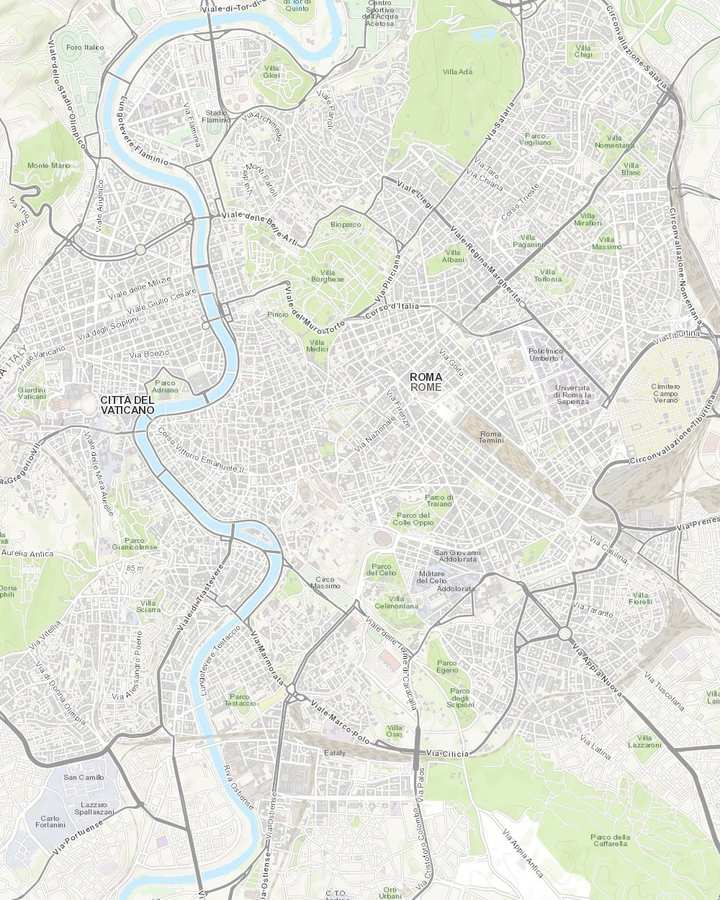
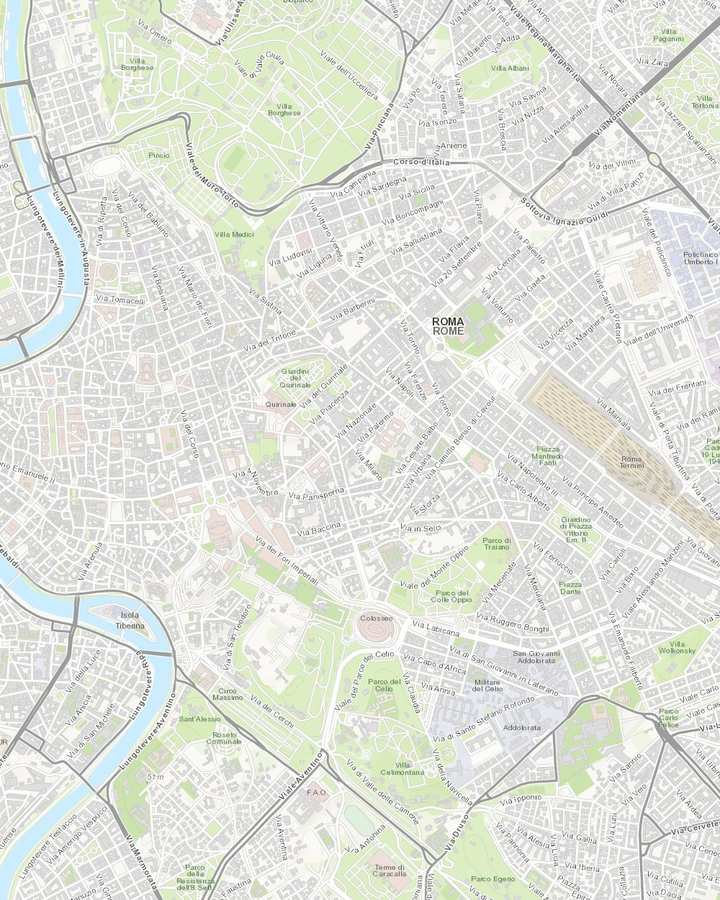
第 45 轮：D2 傍晚改为博物馆直接晚饭 19:00 → 饭后特雷维夜景 → Via del Tritone 出租车站打车回家；纳沃纳删；地图 2 重画

diff --git a/index.html b/index.html
@@ -668,7 +668,7 @@ var DAYS = [
 /* ---------------- D2 ---------------- */
 {
   n:2, date:"2026-10-07", dow:"周三", city:"罗马 · 斗兽场",
-  line:"贝尼尼《圣特雷莎的狂喜》→ Luna 早午饭 → Monti → 斗兽场讲解团 13:30 → 小吃 → 卡比托利欧博物馆 → 特雷维 → Pietro 晚饭 → 饭后纳沃纳",
+  line:"贝尼尼《圣特雷莎的狂喜》→ Luna 早午饭 → Monti → 斗兽场讲解团 13:30 → 小吃 → 卡比托利欧博物馆 → Pietro 晚饭 → 饭后特雷维夜景",
   drive:"", stayShort:"罗马 Castro Pretorio",
   stay:{ t:"罗马 Castro Pretorio 3 · 第 2 晚", d:"Via del Castro Pretorio 30。", addr:"Via del Castro Pretorio 30, 00185 Roma" },
   wc:["roma"],
@@ -680,10 +680,9 @@ var DAYS = [
     {n:"Monti · Madonna dei Monti 小广场", m:"Piazza della Madonna dei Monti Roma", leg:"🚶 15 分钟"},
     {n:"斗兽场门口集合（罗罗旅行团）", m:"Colosseo", leg:"散团后 🚶 5 分钟"},
     {n:"小吃 La Prezzemolina", m:"La Prezzemolina Via del Colosseo 1 Roma", leg:"🚶 10 分钟上山"},
-    {n:"卡比托利欧博物馆", m:"Musei Capitolini Roma", leg:"🚶 15 分钟"},
-    {n:"特雷维喷泉", m:"Fontana di Trevi Roma", leg:"🚶 10 分钟 · 路过万神殿广场"},
-    {n:"晚饭 Pietro al Pantheon", m:"Pietro al Pantheon Via dei Pastini 125 Roma", leg:"饭后 🚶 6 分钟"},
-    {n:"纳沃纳广场 · 四河喷泉夜景", m:"Piazza Navona Roma", leg:"🚶 6 分钟回万神殿边 · 🚕 15 分钟"},
+    {n:"卡比托利欧博物馆", m:"Musei Capitolini Roma", leg:"🚶 20 分钟"},
+    {n:"晚饭 Pietro al Pantheon", m:"Pietro al Pantheon Via dei Pastini 125 Roma", leg:"饭后 🚶 15 分钟 · 路过万神殿广场"},
+    {n:"特雷维喷泉夜景", m:"Fontana di Trevi Roma", leg:"🚶 3 分钟到 Via del Tritone 路口出租车站 · 🚕 15 分钟"},
     {n:"Castro Pretorio 3 民宿", m:"Via del Castro Pretorio 30 Roma"}
   ],
   steps:[
@@ -744,21 +743,16 @@ var DAYS = [
       nav:{m:"Musei Capitolini Roma", mode:"walking"}, place:"Musei Capitolini Roma",
       link:{u:"https://www.museicapitolini.org/en", l:"官网"},
       video:"https://search.bilibili.com/all?keyword=%E5%8D%A1%E6%AF%94%E6%89%98%E5%88%A9%E6%AC%A7%E5%8D%9A%E7%89%A9%E9%A6%86%20%E8%AE%B2%E8%A7%A3" },
-    { id:"d2-13", t:"18:30", e:"🚶", a:"走 15 分钟到特雷维喷泉",
-      sub:"下山经威尼斯广场，沿 Via del Corso 往北，右拐 Via delle Muratte 到头。",
-      nav:{m:"Fontana di Trevi Roma", mode:"walking"} },
-    { id:"d2-14", t:"18:45", e:"⛲", a:"特雷维喷泉 10 分钟，正好日落",
-      sub:"靠水内圈 €2，外圈台阶免费。",
-      nav:{m:"Fontana di Trevi Roma", mode:"walking"}, place:"Fontana di Trevi Roma" },
-    { id:"d2-15", t:"18:55", e:"🚶", a:"走 10 分钟到晚饭，路过万神殿广场（只看外面，明早进）",
+    { id:"d2-13", t:"18:30", e:"🚶", a:"出博物馆，走 20 分钟到晚饭",
+      sub:"下山经威尼斯广场，沿 Via del Corso 往北，左拐 Via dei Pastini。",
       nav:{m:"Pietro al Pantheon Via dei Pastini 125 Roma", mode:"walking"} },
-    { id:"d2-16", t:"19:15", e:"🍝", a:"晚饭 Pietro al Pantheon：罗马四大面 + 炸洋蓟 + 番茄炖牛尾", kind:"eat",
+    { id:"d2-14", t:"19:00", e:"🍝", a:"晚饭 Pietro al Pantheon：罗马四大面 + 炸洋蓟 + 番茄炖牛尾", kind:"eat",
       meals:[
         {n:"Pietro al Pantheon", g:"4.4",
          d:"gricia、carbonara、cacio e pepe、amatriciana 四大面，炸洋蓟，番茄炖牛尾，炸西葫芦花",
          h:"每天 11:00-23:00",
          w:"Google 4.4（2,290 评）、TripAdvisor 4.3（2,792 评）；桌边服务，人均 €25-35",
-         b:"TheFork 或电话订 19:15，要里面的桌；迟到 15 分钟会被放桌", tel:"+39 06 678 9940", m:"Pietro al Pantheon Via dei Pastini 125 Roma"},
+         b:"TheFork 或电话订 19:00，要里面的桌；迟到 15 分钟会被放桌", tel:"+39 06 678 9940", m:"Pietro al Pantheon Via dei Pastini 125 Roma"},
         {n:"备选 Antonio al Pantheon", g:"4.7",
          d:"松露 carbonara、cacio e pepe、炸西葫芦花",
          w:"同一条街 12 号；Google 4.7（3,189 评）、TripAdvisor 4.2",
@@ -766,10 +760,13 @@ var DAYS = [
       ],
       addr:["Pietro al Pantheon：Via dei Pastini 125, Roma","Antonio al Pantheon：Via dei Pastini 12, Roma"],
       nav:{m:"Pietro al Pantheon Via dei Pastini 125 Roma", mode:"walking"} },
-    { id:"d2-17", t:"20:45", e:"🚶", a:"饭后走 6 分钟到纳沃纳广场：灯光下的四河喷泉 15 分钟，再走 6 分钟回万神殿边",
-      nav:{m:"Piazza Navona Roma", mode:"walking"}, place:"Piazza Navona Roma" },
-    { id:"d2-18", t:"21:15", e:"🚕", a:"万神殿边打车 15 分钟回家",
-      sub:"想走：40 分钟。",
+    { id:"d2-15", t:"20:30", e:"🚶", a:"饭后走 15 分钟到特雷维喷泉，路过万神殿广场（明早进）",
+      nav:{m:"Fontana di Trevi Roma", mode:"walking"} },
+    { id:"d2-16", t:"20:45", e:"⛲", a:"特雷维喷泉夜景 15 分钟",
+      sub:"靠水内圈 €2（22:00 后免费），外圈台阶免费。",
+      nav:{m:"Fontana di Trevi Roma", mode:"walking"}, place:"Fontana di Trevi Roma" },
+    { id:"d2-17", t:"21:00", e:"🚕", a:"打车 15 分钟回家：广场车进不来，走 3 分钟到 Via del Tritone 路口的出租车站",
+      sub:"那个站只停 4 辆车，没车就用 FreeNow，上车点选 Largo Chigi（Via del Corso 边，走 5 分钟）或 Piazza Barberini 出租车站（上坡走 7 分钟）。想走：40 分钟。",
       nav:{m:"Via del Castro Pretorio 30 Roma", mode:"driving"} }
   ]
 },
@@ -1596,22 +1593,21 @@ var MAPS2 = {
   "2": {
     w:1000, h:1250,
     img:"maps/2.jpg",
-    walk:[[691,562],[689,564],[687,566],[680,559],[678,560],[666,572],[664,570],[657,564],[655,563],[646,556],[643,552],[641,550],[637,546],[634,543],[633,541],[631,539],[623,530],[621,531],[612,521],[607,515],[605,514],[602,514],[590,523],[588,524],[584,521],[583,523],[579,519],[573,513],[569,516],[566,516],[556,526],[554,525],[552,523],[552,523],[546,517],[544,518],[543,520],[542,522],[539,522],[535,522],[532,522],[529,523],[526,524],[524,525],[522,526],[515,529],[513,530],[507,533],[501,536],[496,538],[492,540],[486,543],[487,546],[487,546],[496,553],[500,556],[498,559],[507,570],[502,576],[494,584],[489,589],[496,598],[498,599],[501,603],[500,605],[503,609],[506,613],[508,615],[506,618],[505,620],[500,630],[502,635],[507,653],[508,657],[512,669],[513,674],[515,675],[515,675],[514,677],[515,680],[513,681],[515,687],[516,690],[518,696],[519,700],[521,706],[523,711],[525,720],[527,728],[528,730],[530,731],[532,732],[530,733],[527,733],[527,736],[527,738],[527,738],[524,738],[521,738],[518,737],[515,736],[510,733],[508,732],[502,727],[499,725],[491,719],[487,716],[484,714],[486,712],[491,710],[495,707],[493,706],[492,704],[491,702],[492,701],[492,701],[490,702],[488,700],[486,701],[480,705],[478,704],[476,702],[474,703],[472,704],[467,700],[465,699],[460,695],[454,690],[444,683],[442,682],[440,684],[438,687],[437,689],[434,690],[433,693],[431,698],[429,699],[426,701],[423,702],[423,702],[421,701],[419,698],[411,693],[412,690],[414,685],[414,681],[415,679],[413,675],[414,672],[412,670],[410,668],[413,665],[413,662],[412,660],[411,655],[409,651],[408,648],[412,647],[410,638],[409,636],[406,624],[403,615],[403,611],[402,607],[401,604],[400,600],[399,595],[400,593],[409,591],[415,589],[417,588],[420,587],[422,586],[424,585],[423,581],[425,582],[427,582],[427,582],[425,583],[424,581],[425,584],[422,586],[420,587],[417,588],[415,589],[409,591],[400,593],[399,595],[394,595],[391,596],[386,596],[383,596],[379,596],[376,598],[374,599],[373,601],[370,603],[365,604],[356,606],[354,609],[351,609],[351,614],[351,611],[352,609],[355,607],[362,605],[362,605],[356,606],[354,609],[351,609],[348,611],[345,611],[342,611],[339,611],[334,611],[330,606],[328,605],[319,605],[316,605],[316,609],[311,610],[310,612]],
-    walkBreaks:[33, 53, 77, 96, 115, 139, 177, 206],
-    drive:[[357,604],[356,606],[355,611],[365,611],[370,611],[373,610],[379,609],[382,614],[383,621],[384,626],[385,630],[387,631],[390,631],[394,639],[389,641],[389,644],[391,653],[387,656],[383,657],[380,658],[377,659],[376,661],[378,663],[382,667],[387,672],[389,674],[392,674],[395,674],[397,673],[399,674],[400,676],[401,680],[402,683],[403,685],[404,687],[406,689],[409,689],[411,688],[412,684],[413,681],[413,677],[412,675],[412,672],[413,670],[414,668],[415,666],[414,661],[410,649],[414,648],[418,647],[421,646],[423,645],[427,645],[431,644],[433,645],[440,651],[443,651],[446,651],[450,650],[452,654],[454,655],[458,654],[461,654],[466,654],[468,655],[470,653],[470,650],[470,647],[469,641],[469,638],[468,635],[467,631],[467,628],[467,620],[467,615],[468,612],[469,609],[470,607],[471,605],[473,603],[480,596],[487,590],[489,588],[493,584],[495,582],[502,575],[506,571],[508,570],[512,566],[514,564],[516,562],[520,559],[531,549],[532,547],[535,545],[537,543],[546,534],[549,534],[552,533],[555,531],[556,529],[558,531],[563,537],[565,539],[570,535],[575,531],[579,527],[583,524],[586,526],[590,524],[592,523],[602,514],[603,512],[606,513],[612,520],[616,524],[621,529],[622,531],[627,536],[629,539],[631,540],[632,542],[634,543],[636,546],[640,551],[642,552],[644,554],[645,556],[647,558],[649,559],[655,564],[664,571],[673,579],[675,581],[683,573],[687,568],[692,563]],
+    walk:[[839,499],[834,504],[831,507],[817,493],[815,495],[788,518],[785,516],[771,504],[769,502],[767,501],[750,486],[749,484],[743,479],[740,475],[732,467],[726,460],[725,458],[724,456],[722,455],[719,453],[702,435],[700,437],[698,435],[681,417],[680,415],[671,406],[669,404],[667,403],[664,403],[662,402],[660,401],[638,421],[636,423],[634,424],[632,423],[626,418],[623,420],[615,414],[604,402],[602,400],[601,402],[595,407],[592,410],[590,407],[569,426],[567,424],[564,424],[561,421],[561,421],[550,408],[549,406],[547,408],[546,410],[545,412],[544,414],[543,416],[542,418],[539,419],[535,418],[532,418],[528,418],[524,419],[520,420],[515,421],[509,423],[506,425],[503,426],[501,427],[487,434],[483,436],[472,441],[460,446],[450,451],[448,452],[442,454],[429,461],[427,463],[429,465],[432,467],[432,467],[449,481],[458,487],[454,494],[472,514],[469,516],[471,518],[462,527],[445,544],[436,552],[434,554],[449,572],[450,570],[452,572],[460,582],[457,584],[456,586],[459,588],[463,594],[470,601],[471,603],[473,605],[474,607],[469,612],[467,613],[468,615],[468,618],[458,634],[461,646],[471,680],[473,682],[472,684],[474,689],[480,713],[483,724],[487,724],[487,724],[484,725],[485,730],[486,734],[484,735],[484,738],[488,749],[487,751],[488,753],[489,755],[494,768],[496,775],[500,788],[503,797],[508,816],[512,831],[513,833],[514,836],[516,837],[519,837],[522,837],[521,839],[519,840],[518,842],[511,841],[511,845],[511,850],[511,850],[506,851],[501,852],[494,849],[488,847],[489,845],[477,840],[475,839],[461,829],[456,825],[440,813],[432,807],[426,802],[427,800],[429,798],[432,798],[434,799],[439,795],[447,788],[445,787],[443,785],[441,782],[439,781],[438,779],[441,777],[441,777],[438,779],[435,777],[433,775],[430,777],[418,785],[415,784],[414,782],[411,781],[409,780],[407,781],[405,782],[402,783],[401,785],[391,776],[388,773],[385,771],[377,765],[365,756],[345,740],[342,740],[339,742],[337,743],[335,745],[333,748],[331,750],[331,753],[328,754],[325,754],[324,761],[323,765],[319,771],[317,774],[315,773],[309,776],[305,778],[303,779],[303,779],[300,779],[299,777],[298,775],[296,772],[279,761],[280,759],[280,756],[278,755],[276,754],[274,755],[274,751],[272,750],[269,748],[266,745],[264,742],[263,740],[262,738],[261,736],[261,733],[260,731],[260,728],[260,725],[259,723],[256,722],[252,721],[251,719],[250,717],[248,718],[239,686],[239,681],[236,667],[232,667],[230,665],[225,661],[223,659],[221,655],[221,652],[221,649],[220,641],[226,639],[225,636],[225,627],[223,619],[221,603],[216,603],[215,594],[203,596],[202,591],[201,589],[200,587],[197,580],[195,581],[187,584],[182,584],[182,584],[170,587],[167,588],[164,593],[158,594],[159,598],[159,604],[159,598],[158,594],[162,593],[167,588],[170,587],[187,584],[195,581],[197,580],[201,578],[204,577],[206,573],[210,570],[215,568],[224,567],[229,568],[238,567],[245,566],[251,565],[253,564],[257,562],[276,556],[287,553],[291,552],[297,549],[302,546],[306,544],[304,537],[306,539],[308,540],[311,540]],
+    walkBreaks:[48, 79, 115, 142, 167, 204, 259],
+    drive:[[302,535],[294,536],[291,537],[288,537],[282,539],[271,541],[272,543],[250,549],[246,543],[244,536],[242,528],[241,526],[242,523],[243,521],[245,520],[248,520],[262,514],[264,512],[266,511],[275,508],[277,507],[289,503],[291,502],[297,501],[318,494],[326,491],[330,490],[342,486],[353,482],[362,479],[364,478],[371,476],[383,471],[389,469],[395,467],[416,460],[419,459],[422,459],[426,459],[428,458],[440,452],[445,450],[448,449],[471,438],[482,433],[501,425],[508,421],[510,420],[514,419],[517,418],[519,417],[522,417],[525,416],[529,416],[532,416],[537,416],[540,417],[543,417],[545,418],[548,419],[552,420],[557,424],[561,428],[563,429],[565,431],[567,432],[570,433],[572,435],[574,438],[584,449],[587,454],[589,453],[598,445],[607,437],[616,429],[623,423],[625,422],[629,426],[631,428],[633,427],[638,424],[641,422],[661,403],[664,400],[666,398],[669,402],[682,415],[689,423],[699,434],[701,436],[711,447],[716,453],[718,454],[719,456],[722,459],[724,462],[726,464],[730,467],[738,476],[740,478],[742,480],[743,482],[745,483],[746,485],[748,486],[749,488],[752,490],[756,493],[766,502],[769,504],[784,517],[787,519],[803,532],[805,534],[808,537],[810,536],[823,522],[832,511],[834,510],[842,502]],
     driveBreaks:[],
-    title:"D2 罗马（全天步行 · 饭后打车 1 次）",
+    title:"D2 罗马（全天步行 · 饭后从特雷维打车回家）",
     pins:[
-      {x:691,y:562,n:1,k:"stay",l:"住处·卡斯特罗",m:"Via del Castro Pretorio 30 Roma",mo:"walking",leg:"步行 20 分 · 打车 10 分"},
-      {x:553,y:522,n:2,k:"sight",l:"圣母胜利教堂·贝尼尼《圣特雷莎的狂喜》",m:"Santa Maria della Vittoria Roma",mo:"walking",leg:"步行 10 分"},
-      {x:487,y:546,n:3,k:"eat",l:"早午饭 Luna by Faro",m:"LUNA by Faro Via delle Quattro Fontane 175 Roma",mo:"walking",leg:"步行 20 分 · 打车 10 分"},
-      {x:515,y:676,n:4,k:"sight",l:"Monti 小广场",m:"Piazza della Madonna dei Monti Roma",mo:"walking",leg:"步行 15 分到斗兽场门口"},
-      {x:527,y:738,n:5,k:"sight",l:"斗兽场门口 13:00 集合 · 讲解团到 16:30",m:"Colosseo",mo:"walking",leg:"散团后步行 5 分"},
-      {x:492,y:702,n:6,k:"eat",l:"小吃 La Prezzemolina",m:"La Prezzemolina Via del Colosseo 1 Roma",mo:"walking",leg:"步行 10 分上山"},
-      {x:423,y:701,n:7,k:"sight",l:"卡比托利欧博物馆 17:00-18:30",m:"Musei Capitolini Roma",mo:"walking",leg:"步行 15 分"},
-      {x:426,y:580,n:8,k:"sight",l:"特雷维喷泉 18:45 日落",m:"Fontana di Trevi Roma",mo:"walking",leg:"步行 10 分 · 路过万神殿广场"},
-      {x:362,y:605,n:9,k:"eat",l:"晚饭 Pietro al Pantheon 19:15",m:"Pietro al Pantheon Via dei Pastini 125 Roma",mo:"walking",leg:"饭后步行 6 分"},
-      {x:308,y:613,n:10,k:"sight",l:"纳沃纳广场·四河喷泉夜景",m:"Piazza Navona Roma",mo:"walking",leg:"步行 6 分回万神殿边 · 打车 15 分回家"}
+      {x:839,y:499,n:1,k:"stay",l:"住处·卡斯特罗",m:"Via del Castro Pretorio 30 Roma",mo:"walking",leg:"步行 20 分 · 打车 10 分"},
+      {x:564,y:419,n:2,k:"sight",l:"圣母胜利教堂·贝尼尼《圣特雷莎的狂喜》",m:"Santa Maria della Vittoria Roma",mo:"walking",leg:"步行 10 分"},
+      {x:431,y:468,n:3,k:"eat",l:"早午饭 Luna by Faro",m:"LUNA by Faro Via delle Quattro Fontane 175 Roma",mo:"walking",leg:"步行 20 分 · 打车 10 分"},
+      {x:487,y:726,n:4,k:"sight",l:"Monti 小广场",m:"Piazza della Madonna dei Monti Roma",mo:"walking",leg:"步行 15 分到斗兽场门口"},
+      {x:511,y:850,n:5,k:"sight",l:"斗兽场门口 13:00 集合 · 讲解团到 16:30",m:"Colosseo",mo:"walking",leg:"散团后步行 5 分"},
+      {x:441,y:779,n:6,k:"eat",l:"小吃 La Prezzemolina",m:"La Prezzemolina Via del Colosseo 1 Roma",mo:"walking",leg:"步行 10 分上山"},
+      {x:303,y:778,n:7,k:"sight",l:"卡比托利欧博物馆 17:00-18:30",m:"Musei Capitolini Roma",mo:"walking",leg:"步行 20 分"},
+      {x:182,y:585,n:8,k:"eat",l:"晚饭 Pietro al Pantheon 19:00",m:"Pietro al Pantheon Via dei Pastini 125 Roma",mo:"walking",leg:"饭后步行 15 分 · 路过万神殿广场"},
+      {x:310,y:536,n:9,k:"sight",l:"特雷维喷泉夜景 20:45",m:"Fontana di Trevi Roma",mo:"driving",leg:"走 3 分到 Via del Tritone 出租车站 · 打车 15 分回家"}
     ]
   },
   "3": {
@@ -1941,7 +1937,7 @@ var PREP = [
   { id:"prep-32", cat:"🎫 门票", a:"万神殿 10/8 9:00 时段票 €7 × 3：Musei Italiani 提前买（实名）",
     d:"官方只认 Musei Italiani（网页或同名 App，先注册账号）：搜 Pantheon → 日期 08/10/2026 → 时段 9:00 → 3 张 Intero €7 → 填三个人名 → 刷卡 → 二维码在 App 和邮件里，进门出示 + 护照。当月票 10/1 后开卖，那天买好。",
     link:{u:"https://portale.museiitaliani.it/", l:"官方售票 portale.museiitaliani.it"} },
-  { id:"prep-23", cat:"🍽 订位（10 月才开放）", a:"Pietro al Pantheon（10/7 晚 19:15 · 罗马）",
+  { id:"prep-23", cat:"🍽 订位（10 月才开放）", a:"Pietro al Pantheon（10/7 晚 19:00 · 罗马）",
     d:"TheFork 或电话 +39 06 678 9940；桌少必须订，要里面的桌，别迟到超过 15 分钟。订不上改 Antonio al Pantheon。" },
   { id:"prep-24", cat:"🍽 订位（10 月才开放）", a:"Spirito di Vino（10/8 晚 19:30 · 罗马）",
     d:"官网在线订。" },
